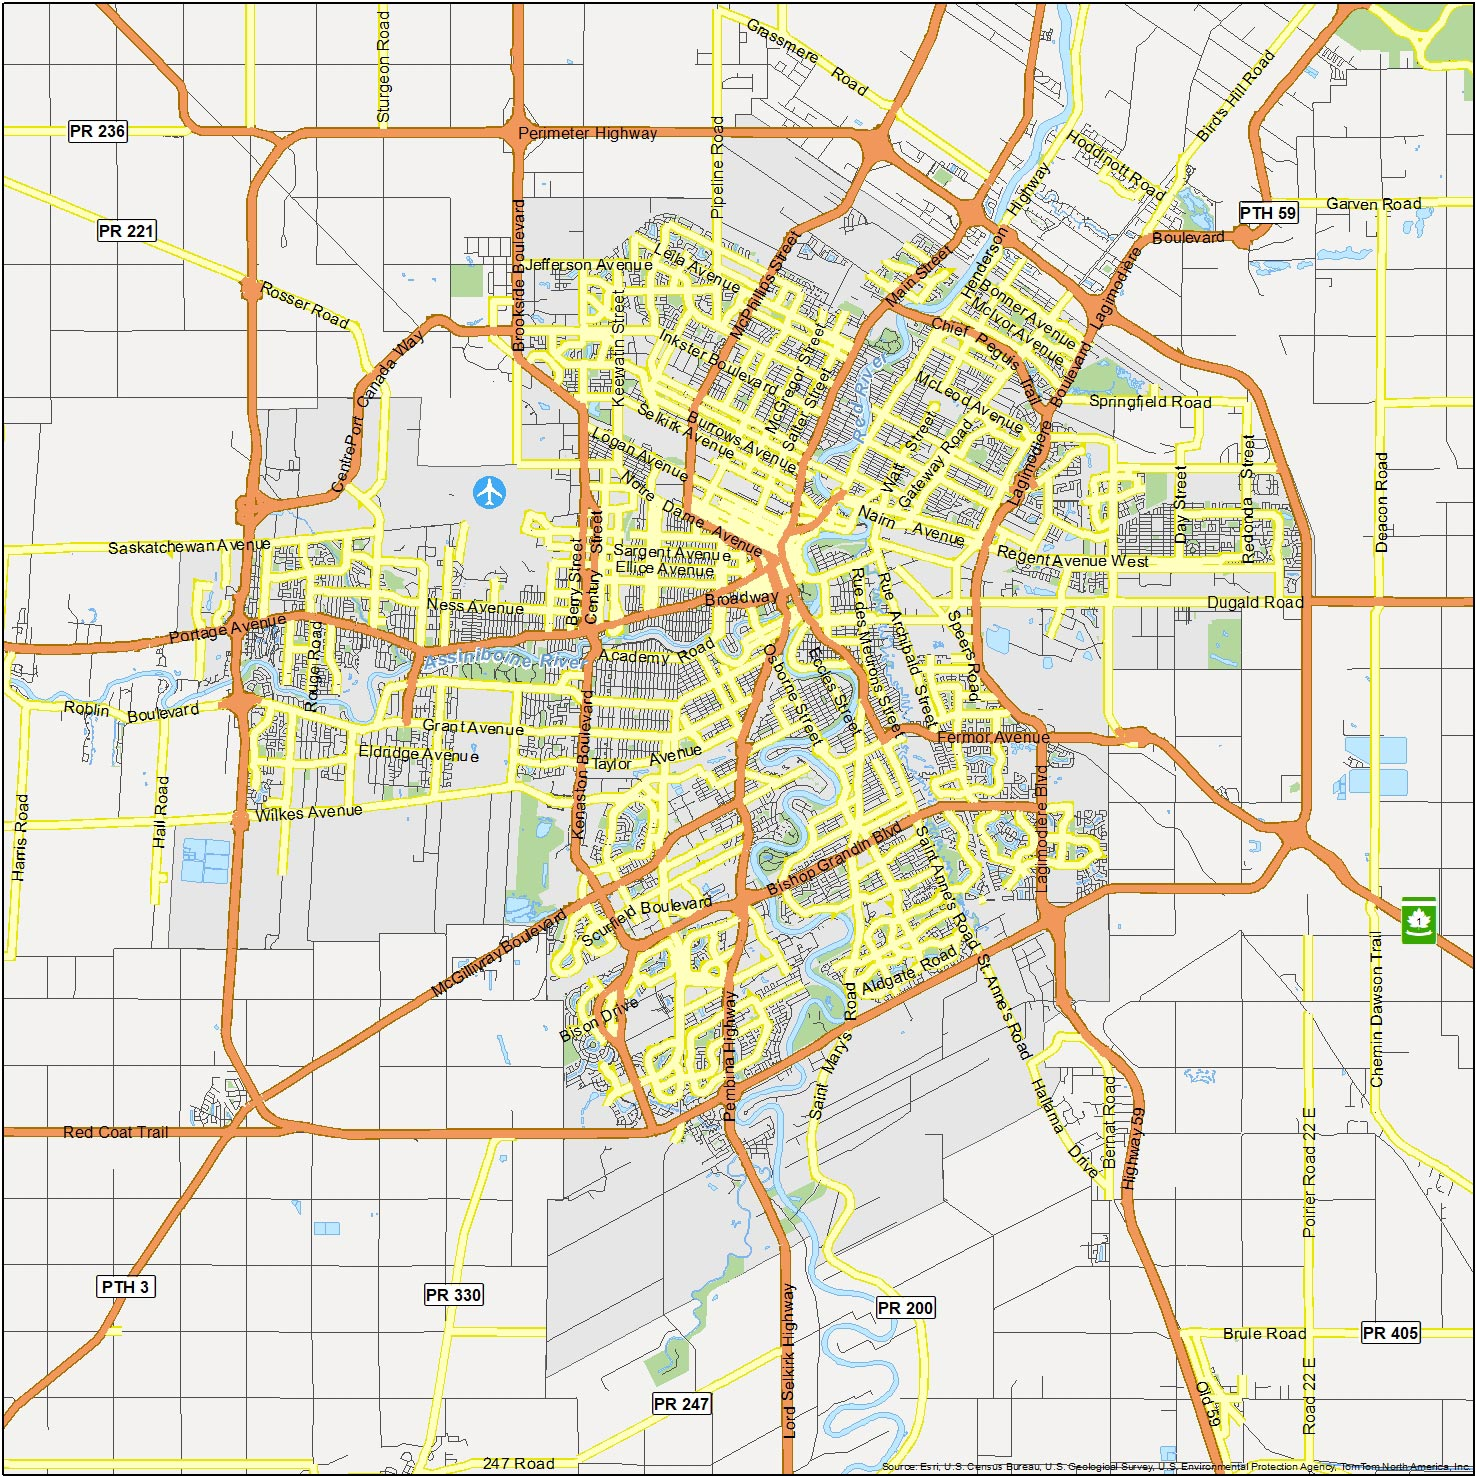
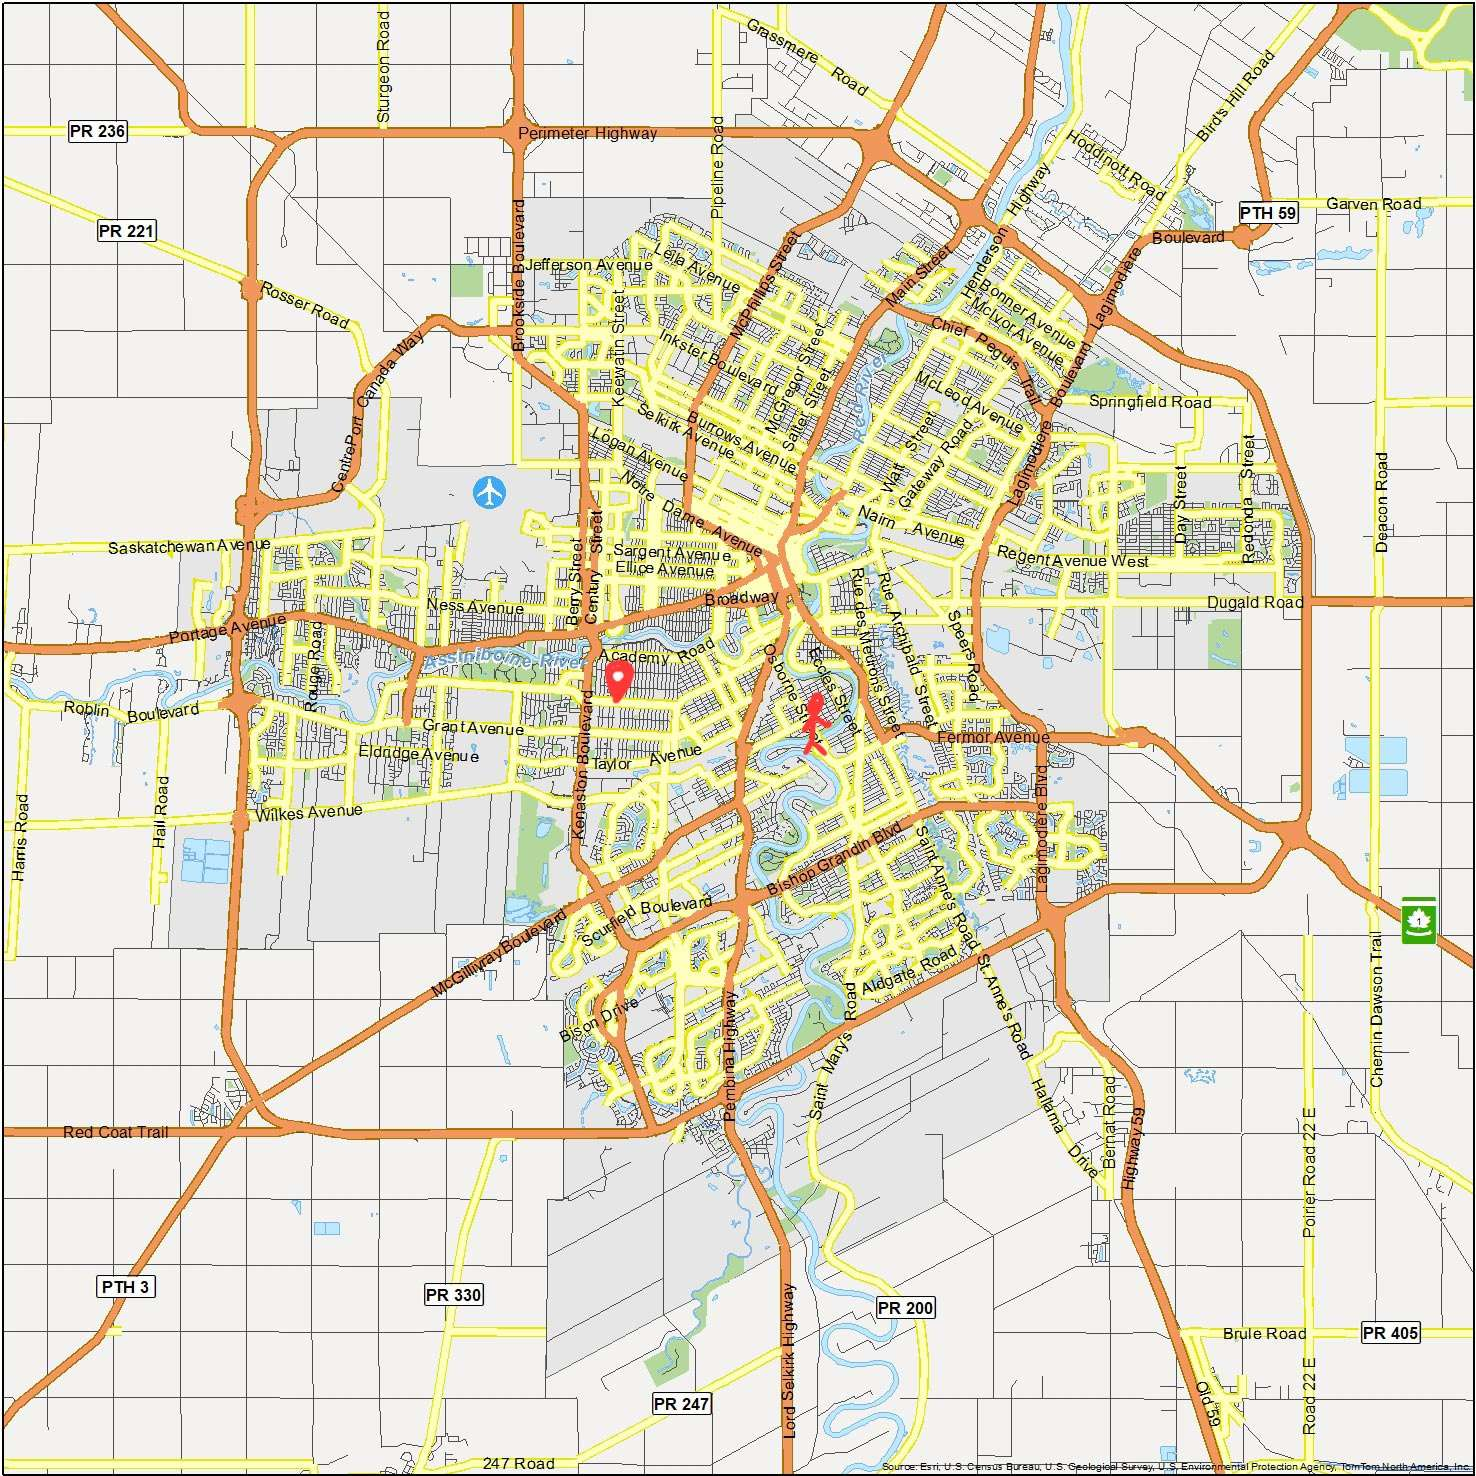
added more stuff to locations

diff --git a/pages/branch1.html b/pages/branch1.html
@@ -1,7 +1,7 @@
 <!DOCTYPE html>
 <html lang="en">
 <head>
-    <title>Branch 1 Details></title>
+    <title>Branch 1</title>
     <meta charset="UTF-8">
     <meta name="viewport" content="width=device-width, initial-scale=1">
     <link rel="icon" type="image/png" href="../images/icons/favicon.svg" />
@@ -29,8 +29,8 @@
                         
 
                         <div class="button-container">
-
-                            <button class="login100-form-btn active" onclick="window.location.href='#'" >Branch 1</button>
+                            <button class="login100-form-btn" onclick="window.location.href='locations.html'" >All Branch</button>
+                            <button class="login100-form-btn active" onclick="window.location.href='branch1.html'" >Branch 1</button>
                             <button class="login100-form-btn" onclick="window.location.href='branch2.html'" >Branch 2</button>
                             <button class="login100-form-btn" onclick="window.location.href='branch3.html'">Branch 3</button>
 
@@ -38,24 +38,14 @@
 
 
                         <div class="text-center p-t-12">
-								
-								
-                           <p></p>
-                            
-
-                            <p><strong>Branch Discriptions</strong></p>
-                            <p>C./gk;lsdjgkl; shg;dfjg ldfsj lj'h 'l hfgh 
-                                fgkh;fg hkfj lkfdjh ljh hgh 'fg'
-                            </p>
-                            
-
-                            <p><strong>Branch 1</strong></p>
-                            <p>Chaosflame, Vollachia</p>
-                            <p>Contact: 987-654-3210</p>
-
-                            
-                            
-                            
+                            <p style="font-weight: bold;"><u>Branch 1</u></p>
+                            <p>100 Leila Avenue</p>
+                            <p style="margin-bottom: 5px;">Contact: 987-654-3210</p>
+                            <p style="font-weight: bold;"> <u>Branch Descriptions</u></p>
+                            <p> Nestled in a vibrant area, Branch 1 at 100 Leila Avenue offers exceptional customer service with easy access to essential services. 
+                                The branch is strategically located near key transit routes, ensuring convenience for visitors. 
+                                Whether you're looking for expert assistance or personalized support, this branch provides a welcoming and efficient experience for all.
+                            </p>                     
                         </div>
                     </div>
                     

diff --git a/pages/branch2.html b/pages/branch2.html
@@ -29,7 +29,7 @@
                         
 
                         <div class="button-container">
-
+                            <button class="login100-form-btn" onclick="window.location.href='locations.html'">All Branch</button>
                             <button class="login100-form-btn" onclick="window.location.href='branch1.html'" >Branch 1</button>
                             <button class="login100-form-btn active" onclick="window.location.href='branch2.html'" >Branch 2</button>
                             <button class="login100-form-btn" onclick="window.location.href='branch3.html'">Branch 3</button>
@@ -38,24 +38,13 @@
 
 
                         <div class="text-center p-t-12">
-								
-								
-                           <p></p>
-                            
-
-                            <p><strong>Branch Discriptions</strong></p>
-                            <p>C./gk;lsdjgkl; shg;dfjg ldfsj lj'h 'l hfgh 
-                                fgkh;fg hkfj lkfdjh ljh hgh 'fg'
+                            <p style="font-weight: bold;"><u>Branch 2</u></p>
+                            <p>150 Kenaston Boulevard</p>
+                            <p style="margin-bottom: 5px;">Contact: 456-789-0123</p>
+                            <p><strong><u>Branch Descriptions</u></strong></p>
+                            <p> Located near downtown, Branch 2 at 150 Kenaston Boulevard is the perfect fitness hub for those who want to stay active and energized in the heart of the city. 
+                                With its proximity to downtown, this branch is ideal for professionals, residents, and students looking for a convenient place to work out before, during, or after their busy schedules. 
                             </p>
-                            
-
-                            <p><strong>Branch 2</strong></p>
-                                    <p>Royal Capital, Lugunica</p>
-                                    <p>Contact: 456-789-0123</p>
-
-                            
-                            
-                            
                         </div>
                     </div>
                     

diff --git a/pages/branch3.html b/pages/branch3.html
@@ -29,7 +29,7 @@
                         
 
                         <div class="button-container">
-
+                            <button class="login100-form-btn" onclick="window.location.href='locations.html'">All Branch</button>
                             <button class="login100-form-btn" onclick="window.location.href='branch1.html'" >Branch 1</button>
                             <button class="login100-form-btn" onclick="window.location.href='branch2.html'" >Branch 2</button>
                             <button class="login100-form-btn active" onclick="window.location.href='branch3.html'">Branch 3</button>
@@ -38,24 +38,14 @@
 
 
                         <div class="text-center p-t-12">
-								
-								
-                           <p></p>
-                            
+                            <p><strong><u>Branch 3</u></strong></p>
+                            <p>100 Baylor Avenue</p>
+                            <p style="margin-bottom: 5px;">Contact: 123-456-7890</p> 
 
-                            <p><strong>Branch Discriptions</strong></p>
-                            <p>C./gk;lsdjgkl; shg;dfjg ldfsj lj'h 'l hfgh 
-                                fgkh;fg hkfj lkfdjh ljh hgh 'fg'
+                            <p><strong><u>Branch Descriptions</u></strong></p>
+                            <p>Branch 3 at 100 Baylor Avenue is a premier fitness destination for those seeking an energetic and community-driven workout experience. 
+                            Located in a thriving neighborhood with easy access to major roads, this branch offers a wide range of facilities, including cutting-edge fitness equipment, spacious workout areas, and expertly led group classes.
                             </p>
-                            
-
-                            <p><strong>Branch 3</strong></p>
-                                    <p>Pleiades Watchtower, Augria Sand Dunes</p>
-                                    <p>Contact: 123-456-7890</p>
-
-                            
-                            
-                            
                         </div>
                     </div>
                     

diff --git a/pages/locations.html b/pages/locations.html
@@ -29,10 +29,10 @@
                         
 
                         <div class="button-container">
-
-                            <button class="login100-form-btn" onclick="window.location.href='branch1.html'" >Branch 1</button>
-                            <button class="login100-form-btn" onclick="window.location.href='branch2.html'" >Branch 2</button>
-                            <button class="login100-form-btn" onclick="window.location.href='brnach3.html'">Branch 3</button>
+                            <button class="login100-form-btn" onclick="window.location.href='#'">All Branch</button>
+                            <button class="login100-form-btn" onclick="window.location.href='branch1.html'">Branch 1</button>
+                            <button class="login100-form-btn" onclick="window.location.href='branch2.html'">Branch 2</button>
+                            <button class="login100-form-btn" onclick="window.location.href='branch3.html'">Branch 3</button>
 
                         </div>
                     </div>

diff --git a/pages/protein2.html b/pages/protein2.html
@@ -2,7 +2,7 @@
 <html lang="en">
 
 <head>
-    <title>Protine Shakes - Jyniper Gyms</title>
+    <title>Protein - Jyniper Gyms</title>
     <meta charset="UTF-8">
     <meta name="viewport" content="width=device-width, initial-scale=1">
     <link rel="icon" type="image/png" href="../images/icons/favicon.svg" />
